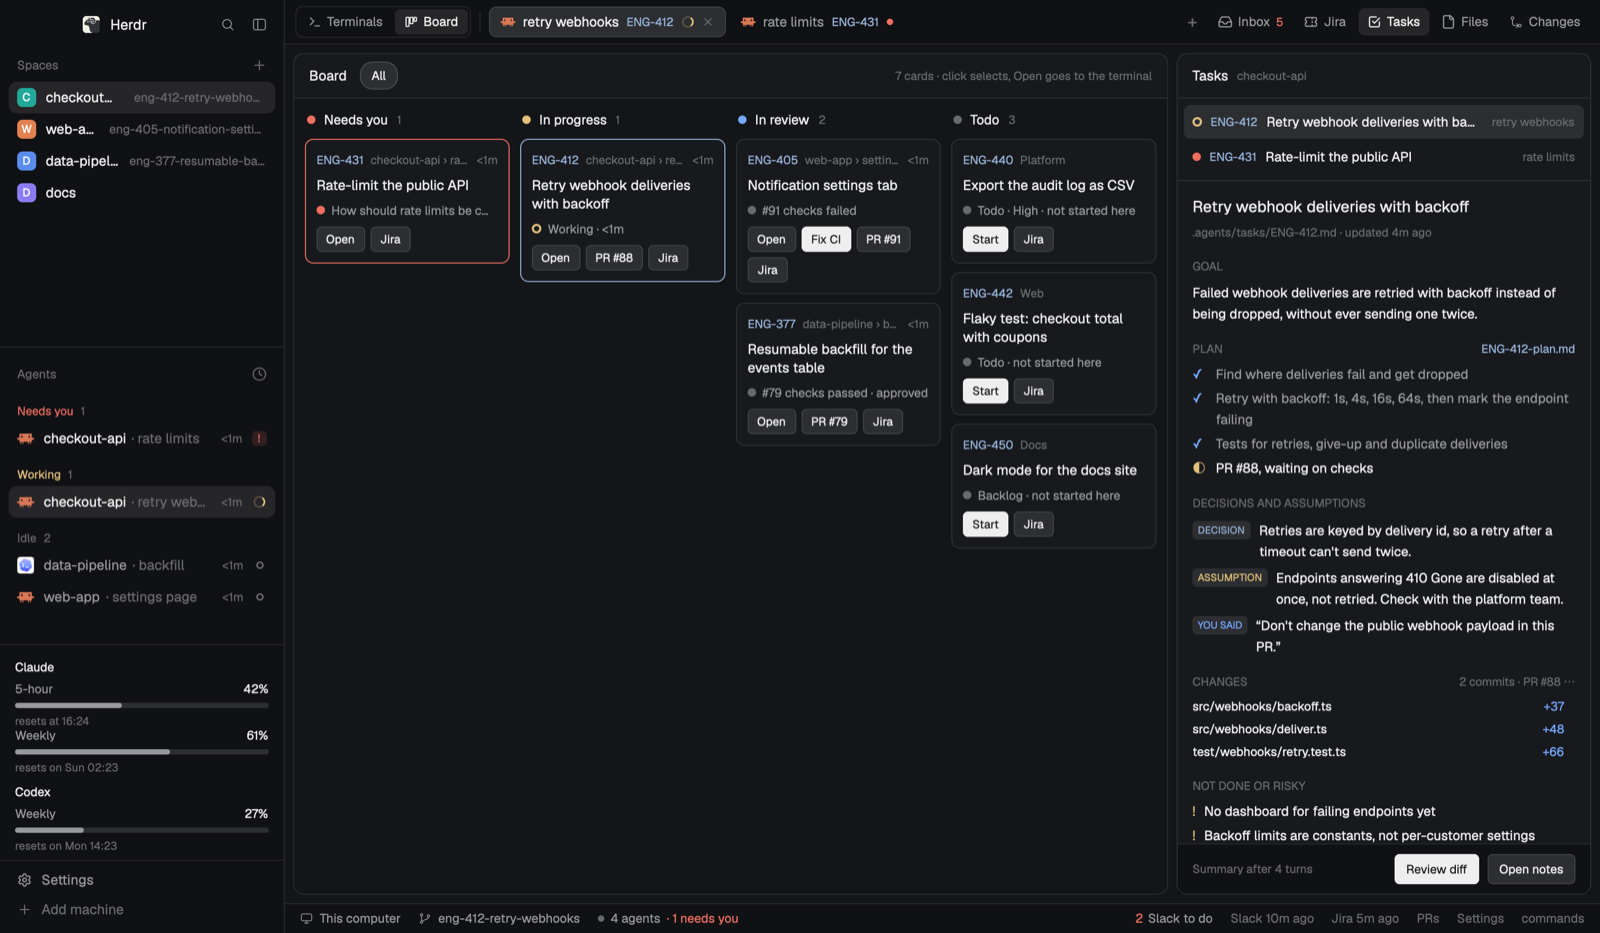
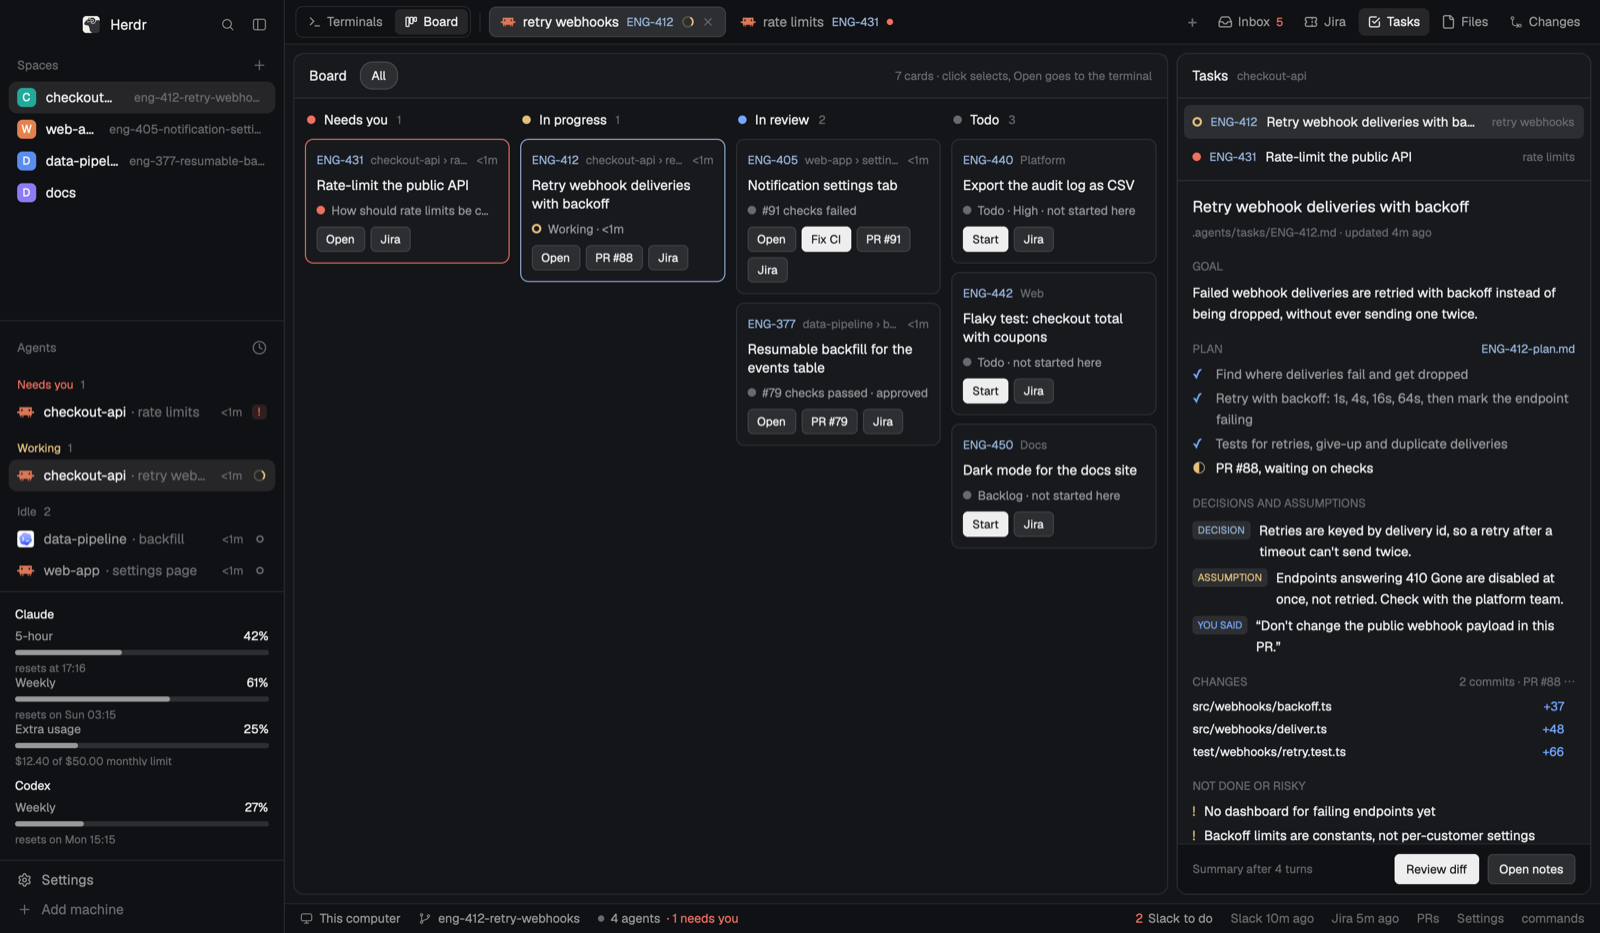
feat(usage): show Claude's extra-usage credits as a bar
When a plan has extra usage on (pay-as-you-go credits after its limits),
the Claude usage view gets a third bar: the share of the monthly limit
spent, with "$12.40 of $50.00 monthly limit" under it, red once the limit
is reached, and "<1%" for a share under one percent.

- usage.js: extraUsage() reads the usage endpoint's spend block, else
  extra_usage, with amounts in minor units and the currency's decimals;
  only the two amounts, the currency and the limit-reached flag are kept
- No bar when extra usage is off, turned off by the user, absent (plans
  without it, older answers) or without a limit: the view is as before
- Settings: Usage bars -> Extra usage, on by default (settings usage.extra)
- The usage block gets more bottom padding; the last row's descenders
  were clipped
- Demo data shows a made-up credit bar; screenshots regenerated

Changed region(s): [[0.0, 0.373, 0.1875, 0.9325], [0.1562, 0.4352, 0.1875, 0.4662]]

diff --git a/mods/cc-status/usage.js b/mods/cc-status/usage.js
@@ -1,4 +1,4 @@
-// Plan usage for Claude Code and Codex, as Bettr reads it.
+// Plan usage for Claude Code and Codex, as Bettr reads it, plus Claude's extra-usage credits when they're on.
 // Claude: the usage endpoint /usage uses, with Claude Code's own login from the macOS Keychain. The token is
 // only read, never refreshed (refreshing would sign Claude Code out) and never stored.
 // Codex: the limits Codex saves in its newest session log.
@@ -20,7 +20,41 @@ async function claudeToken() {
   return oauth.accessToken;
 }
 
-export async function claudeUsage() {
+// Extra usage: a plan's pay-as-you-go credits, used after its limits. A bar only when it's on and has a monthly
+// limit; otherwise (no such plan, switched off, no limit, odd numbers) null, and the view is as before. Only the two
+// amounts, the currency and whether the limit is reached are kept; nothing else from the response.
+const SYMBOL = { USD: "$", EUR: "€", GBP: "£", BRL: "R$", CAD: "CA$", AUD: "A$", JPY: "¥", INR: "₹" };
+function money(minor, exponent, currency) {
+  const digits = Number.isInteger(exponent) && exponent >= 0 && exponent <= 4 ? exponent : 2;
+  const [whole, cents] = (Number(minor) / 10 ** digits).toFixed(digits).split(".");
+  const amount = whole.replace(/\B(?=(\d{3})+(?!\d))/g, ",") + (cents ? `.${cents}` : "");
+  const code = String(currency ?? "").toUpperCase();
+  return SYMBOL[code] ? `${SYMBOL[code]}${amount}` : `${amount}${code ? ` ${code}` : ""}`;
+}
+
+export function extraUsage(u) {
+  const e = u?.extra_usage, s = u?.spend;
+  if (!e && !s) return null;
+  if (e && (e.is_enabled === false || e.user_disabled === true)) return null;
+  if (s && s.enabled === false) return null;
+  let used, limit, exponent, currency;
+  if (Number.isFinite(Number(s?.used?.amount_minor)) && Number.isFinite(Number(s?.limit?.amount_minor))) {
+    used = Number(s.used.amount_minor); limit = Number(s.limit.amount_minor);
+    exponent = s.used.exponent ?? s.limit.exponent ?? 2; currency = s.used.currency ?? s.limit.currency;
+  } else if (e?.is_enabled === true && Number.isFinite(Number(e.used_credits)) && Number.isFinite(Number(e.monthly_limit))) {
+    used = Number(e.used_credits); limit = Number(e.monthly_limit); exponent = e.decimal_places ?? 2; currency = e.currency;
+  } else return null;
+  if (!(limit > 0) || used < 0) return null;
+  const reached = e?.spend_limit_reached === true || used >= limit;
+  return {
+    label: "Extra usage", used: clamp((used / limit) * 100), resetsAt: null, alert: reached,
+    detail: reached ? `Limit reached: ${money(used, exponent, currency)} of ${money(limit, exponent, currency)}`
+      : `${money(used, exponent, currency)} of ${money(limit, exponent, currency)} monthly limit`,
+  };
+}
+
+// extra: also the Extra usage bar (settings usage.extra), when the plan has it on.
+export async function claudeUsage({ extra = true } = {}) {
   const token = await claudeToken();
   const res = await fetch("https://api.anthropic.com/api/oauth/usage", {
     headers: { Authorization: `Bearer ${token}`, "anthropic-beta": "oauth-2025-04-20", "User-Agent": "herdr-command-center" },
@@ -31,9 +65,11 @@ export async function claudeUsage() {
     throw e;
   }
   const u = await res.json();
-  return [["5-hour", u.five_hour], ["Weekly", u.seven_day]]
+  const windows = [["5-hour", u.five_hour], ["Weekly", u.seven_day]]
     .filter(([, w]) => w && Number.isFinite(Number(w.utilization)))
     .map(([name, w]) => ({ label: name, used: clamp(w.utilization), resetsAt: ms(w.resets_at) }));
+  const credits = extra ? extraUsage(u) : null;
+  return credits ? [...windows, credits] : windows;
 }
 
 // The newest rate-limit record in the newest Codex session of the past week; null when there's none.

diff --git a/mods/cc-usage/main.js b/mods/cc-usage/main.js
@@ -6,7 +6,8 @@ import { v_flex, h_flex } from "gpui-base";
 import { shared, setShared, theme, run } from "herdr";
 
 const AGENTS = [{ key: "claude", name: "Claude" }, { key: "codex", name: "Codex" }];
-const ROW = 44, HEAD = 22, PAD = 20, GAP = 8;
+// PAD: py(10) twice plus room for the last row's descenders, which 20 clipped.
+const ROW = 44, HEAD = 22, PAD = 26, GAP = 8;
 
 // "resets in 25m", "resets at 14:20" (today), "resets on Mon 02:29" (another day).
 function resets(at) {
@@ -37,16 +38,19 @@ export default class Usage extends View {
       cx.spawn(async () => { run("layout.resize", { id: "usage", px: Math.max(height, 1) }); });
     }
 
-    // Name and percentage (what you glance at), the bar, then when it frees up.
+    // Name and percentage (what you glance at), the bar, then when it frees up, or for extra-usage credits what's
+    // spent of the limit (detail; alert when the limit is reached).
     const bar = (w, key) => {
-      const color = w.used >= 90 ? t.blocked : w.used >= 70 ? t.working : t.muted;
+      const color = w.alert || w.used >= 90 ? t.blocked : w.used >= 70 ? t.working : t.muted;
+      const pct = w.used > 0 && w.used < 1 ? "<1%" : `${Math.round(w.used)}%`;
+      const below = w.detail || (w.resetsAt ? resets(w.resetsAt) : "");
       return v_flex().id(key).h(ROW).justify_center().gap(4)
         .child(h_flex().justify_between().text_size(11.5)
           .child(div().text_color(t.muted).child(w.label))
-          .child(div().font_medium().text_color(w.used >= 70 ? color : t.foreground).child(`${Math.round(w.used)}%`)))
+          .child(div().font_medium().text_color(w.alert || w.used >= 70 ? color : t.foreground).child(pct)))
         .child(div().h(5).w_full().rounded(3).bg(t.raised)
           .child(div().h(5).rounded(3).bg(color).w(`${Math.max(2, w.used)}%`)))
-        .when(Boolean(w.resetsAt), (el) => el.child(div().text_size(10.5).text_color(t.dim).truncate().child(resets(w.resetsAt))));
+        .when(Boolean(below), (el) => el.child(div().text_size(10.5).text_color(w.alert ? t.blocked : t.dim).truncate().child(below)));
     };
 
     return v_flex().id("cc-usage").size_full().px(14).py(10).gap(GAP).bg(t.chrome).border_t(1).border_color(t.border)

diff --git a/mods/cc-settings/main.js b/mods/cc-settings/main.js
@@ -148,6 +148,8 @@ export default class Settings extends View {
         ]))
         .child(card("use", "Usage bars", "Plan limits at the foot of the sidebar. Claude's come from your Claude Code login in the Keychain.", undefined, null, [
           row("Claude Code", toggle("use-claude", d.usage.claude, () => { d.usage.claude = !d.usage.claude; })),
+          row("Extra usage", toggle("use-extra", d.usage.extra !== false, () => { d.usage.extra = d.usage.extra === false; }),
+            "Claude's pay-as-you-go credits, when your plan has them on"),
           row("Codex", toggle("use-codex", d.usage.codex, () => { d.usage.codex = !d.usage.codex; })),
         ])))
       .child(h_flex().flex_none().px(20).py(12).gap(8).items_center().border_t(1).border_color(t.border)

diff --git a/mods/cc-status/settings.js b/mods/cc-status/settings.js
@@ -19,7 +19,8 @@ export const DEFAULTS = {
   jira: { enabled: true, everyMin: 15, hours: [7, 22], model: "haiku", site: "", jql: "", branchPattern: "{key}-{slug}", keychain: "herdr-jira" },
   slack: { enabled: false, everyMin: 60, hours: [9, 19], model: "sonnet" },
   standup: { enabled: false, times: [23], weekdaysOnly: true, cutover: 18, model: "sonnet" },
-  usage: { claude: true, codex: true },
+  // extra: Claude's extra-usage credits as a bar too, shown only when the plan has them on.
+  usage: { claude: true, codex: true, extra: true },
   demo: false, // sample data and no fetching, for scripts/preview.mjs
 };
 

diff --git a/mods/cc-status/main.js b/mods/cc-status/main.js
@@ -127,7 +127,7 @@ export default class CcStatus extends View {
       const prev = shared("cc.usage") ?? {};
       const out = { ...prev };
       try {
-        out.claude = this.settings.usage.claude ? { windows: await claudeUsage(), at: Date.now(), error: null } : null;
+        out.claude = this.settings.usage.claude ? { windows: await claudeUsage({ extra: this.settings.usage.extra !== false }), at: Date.now(), error: null } : null;
         u.failures = 0;
       } catch (e) {
         u.failures = Math.min(u.failures + 1, 8);

diff --git a/README.md b/README.md
@@ -71,7 +71,7 @@ minute). The installer writes it only when it's missing. New installs start with
 | Slack sweep | **off**; when on, hourly, 09–19, Sonnet | 30–45¢ a run on Sonnet |
 | Standup draft | **off**; when on, 23:00 on weekdays, Sonnet | about 25¢ a run |
 | Repo folders | the folders of the repos open in Herdr | |
-| Usage bars | Claude Code and Codex | free |
+| Usage bars | Claude Code (with its extra-usage credits when your plan has them on) and Codex | free |
 
 Jira also has **Site** (your `*.atlassian.net`; found and saved by the first check when empty), **JQL** (which issues
 to list; empty is `assignee = currentUser() AND statusCategory != Done`) and **Branch name** for Start from issue:
@@ -94,7 +94,7 @@ paying to fail; a free check of Claude Code's own "needs sign-in" list catches m
 | `cc-tasks` | side panel | For each tab of the shown space: goal, plan, decisions, assumptions, what's not done (from `.agents/tasks/`), plus changed files, commits and PR checks from git; a red box when the agent is waiting on you |
 | `cc-handoff` | dialog | Hand a Slack ask to an agent: a new one (plan mode) or a free one in this space, optionally searching Slack first; the message is editable |
 | `cc-standup` | pane | The standup draft as bullets: click to edit, × to drop, press-and-release on another bullet to move it there, ✦ or the box below to have Claude change one bullet or the whole draft; Undo (10 steps), Write now, Copy. Opened from the Inbox footer |
-| `cc-usage` | sidebar foot | Claude Code and Codex plan usage: a bar per limit window with its reset time; amber from 70%, red from 90%; click to refresh |
+| `cc-usage` | sidebar foot | Claude Code and Codex plan usage: a bar per limit window with its reset time, and Claude's extra-usage credits (spent of the monthly limit) when on; amber from 70%, red from 90% or a reached limit; click to refresh |
 | `cc-settings` | dialog | The settings above, with a daily cost estimate and the Bitbucket sign-in state |
 | `cc-status` | status bar | Status bar, and the only fetcher: writes `cc.github` (PRs from both hosts), `cc.bitbucket`, `cc.snippets`, `cc.jira` and `cc.slack` to shared state |
 
@@ -142,7 +142,10 @@ schedule leaves it alone; Write now still replaces it (Undo brings yours back). 
 Sonnet run with no tools, a few cents.
 
 Usage: Claude Code's numbers come from the usage endpoint `/usage` uses, with Claude Code's login read from the macOS
-Keychain (read only, never refreshed or stored), every 3 minutes, backing off to 15 after failures. Codex's come from
+Keychain (read only, never refreshed or stored), every 3 minutes, backing off to 15 after failures. When your plan has
+extra usage on (pay-as-you-go credits after its limits), a third bar shows what's spent of the monthly limit, red
+once it's reached; Settings → Usage bars → Extra usage hides it. Without extra usage nothing changes. Only the two
+amounts, the currency and the limit-reached flag are kept, in Herdr's local shared state. Codex's come from
 the newest session log under `~/.codex/sessions`, so they update when Codex runs.
 
 Branches link to issues by key: a branch is an issue's when the key appears in it as a whole token

diff --git a/RECIPE.md b/RECIPE.md
@@ -29,7 +29,10 @@ usage bars.
   per piece of work: Jira key and space › tab, title, a status line with a dot, and buttons (Open, Fix CI, PR #,
   Start, Jira). Issues no tab works on, backlog ones too, sit in Todo. Filter chips by repo folder.
 - **Sidebar foot** (above Settings): "Claude" and "Codex", each limit as three lines: name and percentage, a 5 px
-  bar (`muted`, `working` from 70 %, `blocked` from 90 %), "resets on Mon 02:30" in `dim` 10.5 px.
+  bar (`muted`, `working` from 70 %, `blocked` from 90 %), "resets on Mon 02:30" in `dim` 10.5 px. Claude adds an
+  "Extra usage" bar when the plan's pay-as-you-go credits are on (`extra_usage` / `spend` in the usage endpoint's
+  answer, amounts in minor units): "$12.40 of $50.00 monthly limit", `blocked` when the limit is reached; "<1%"
+  for a share under one percent. No bar when they're off, absent or without a limit.
 - **Status bar**: machine, branch, agent count, then "2 Slack to do", "Slack 10m ago", "Jira 5m ago", "PRs just
   now" ("GitHub" when Bitbucket is off), **Settings**, the palette hint.
 - **Dialogs**: Start from issue, Hand to agent (Slack), Settings (with a daily cost estimate); the standup opens as
